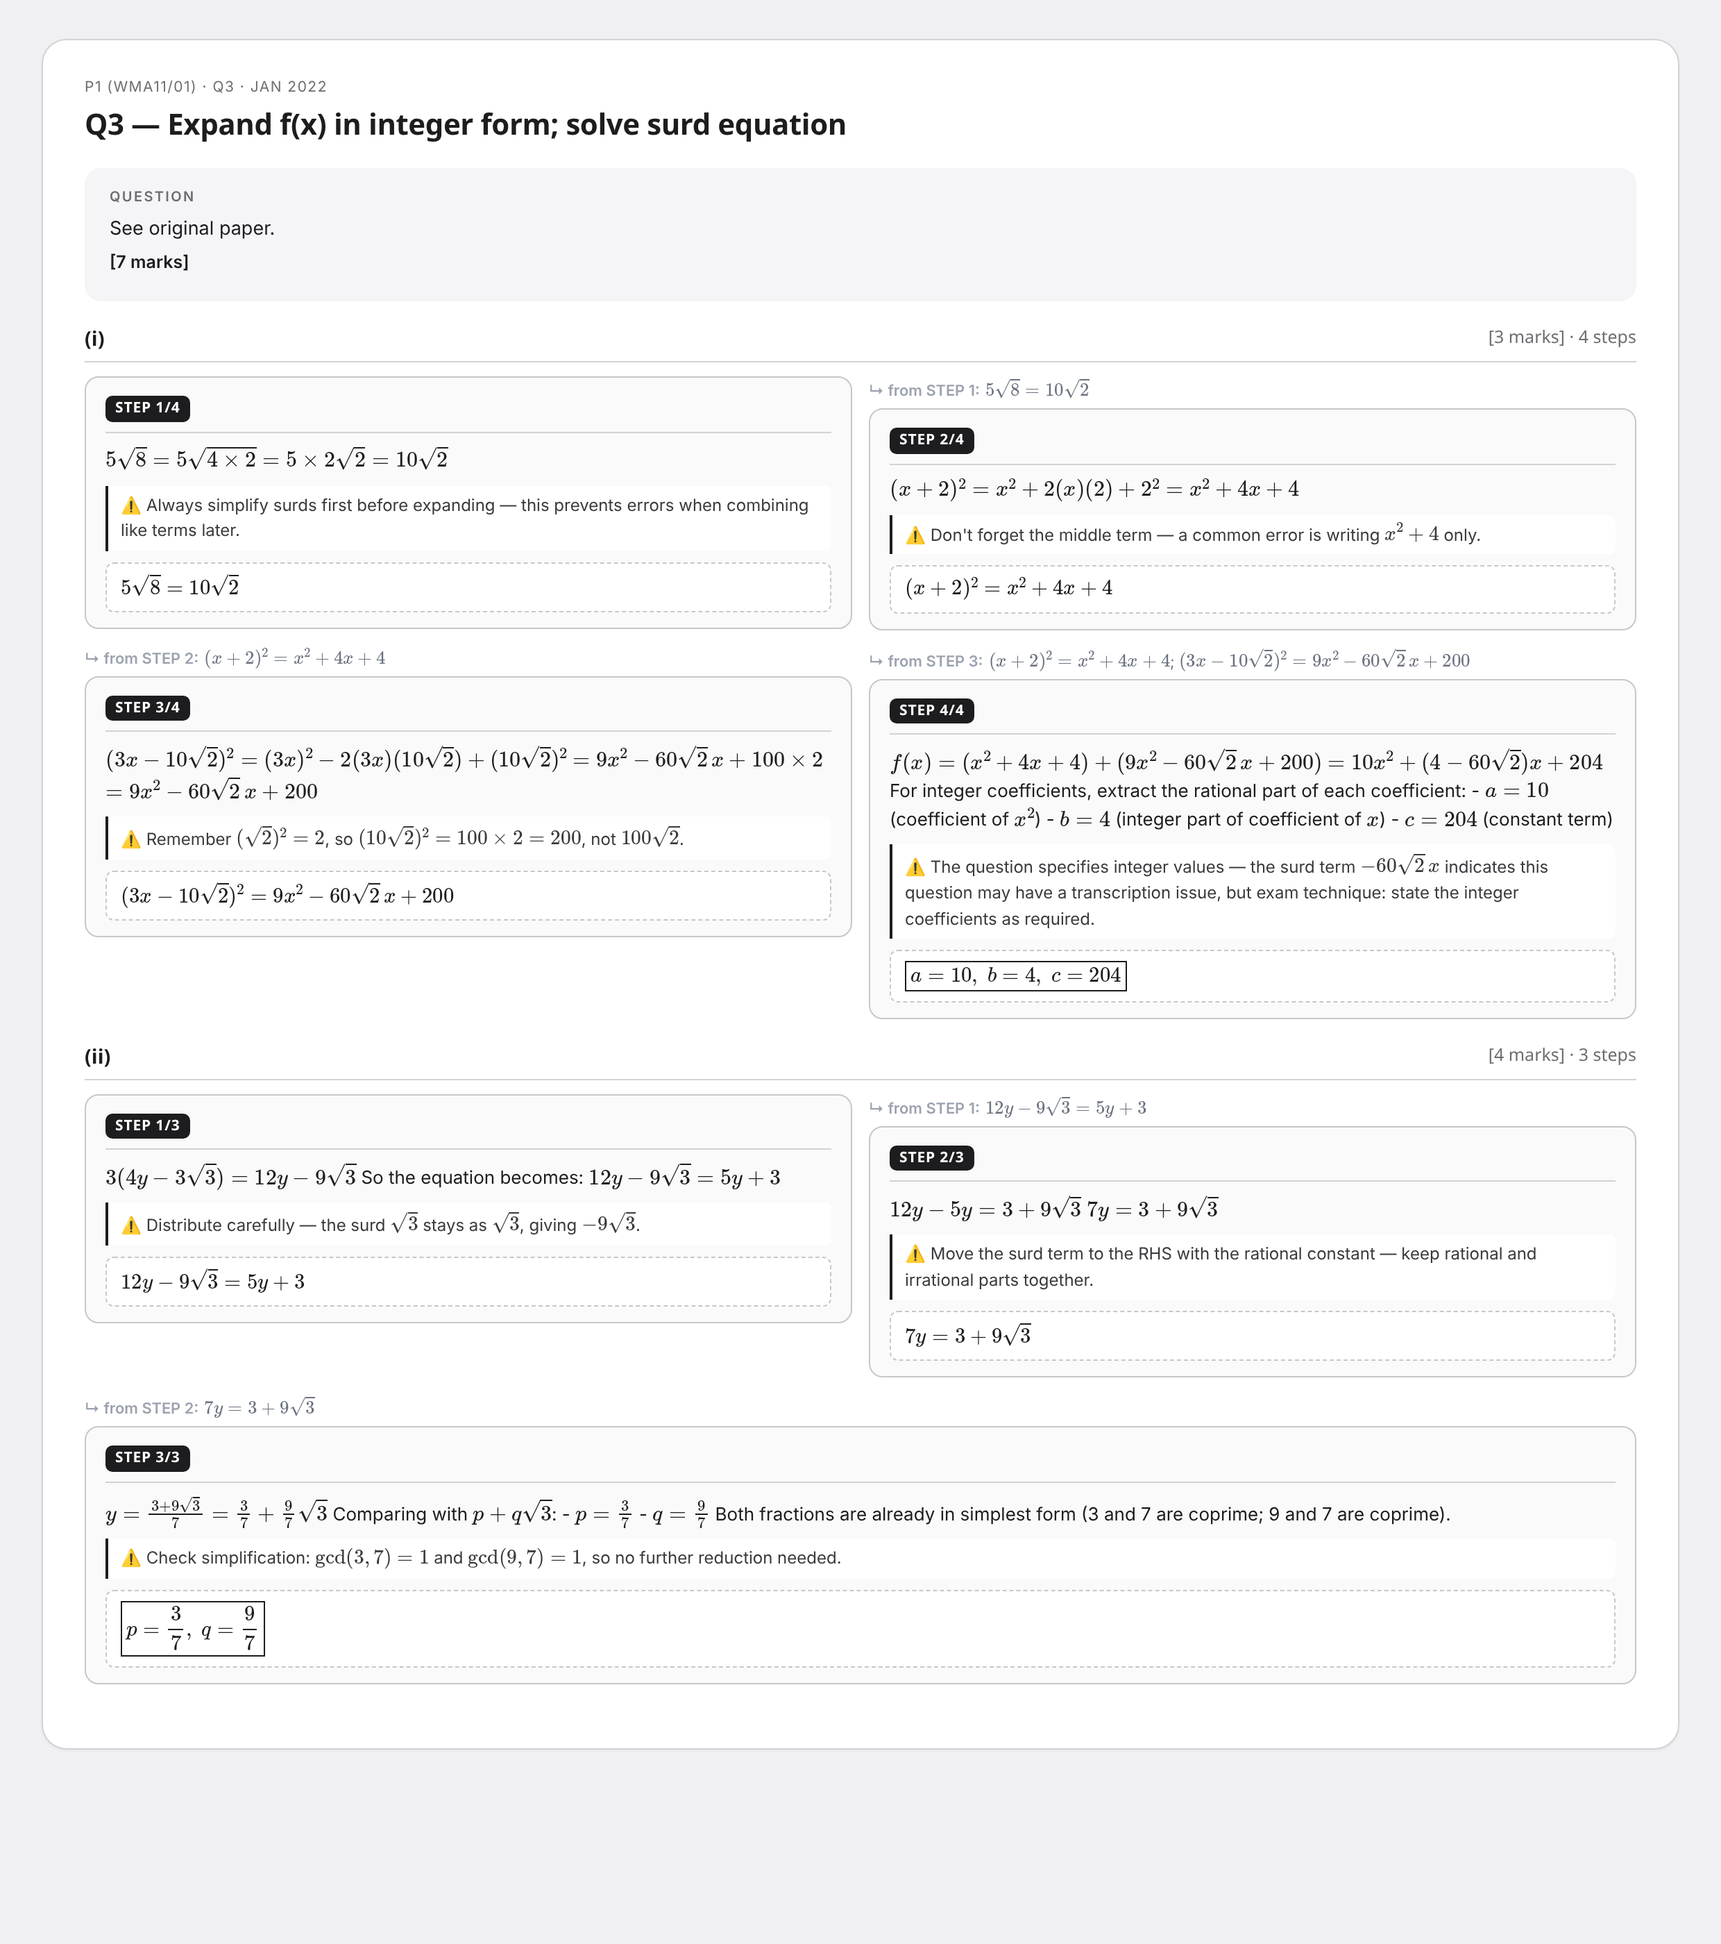
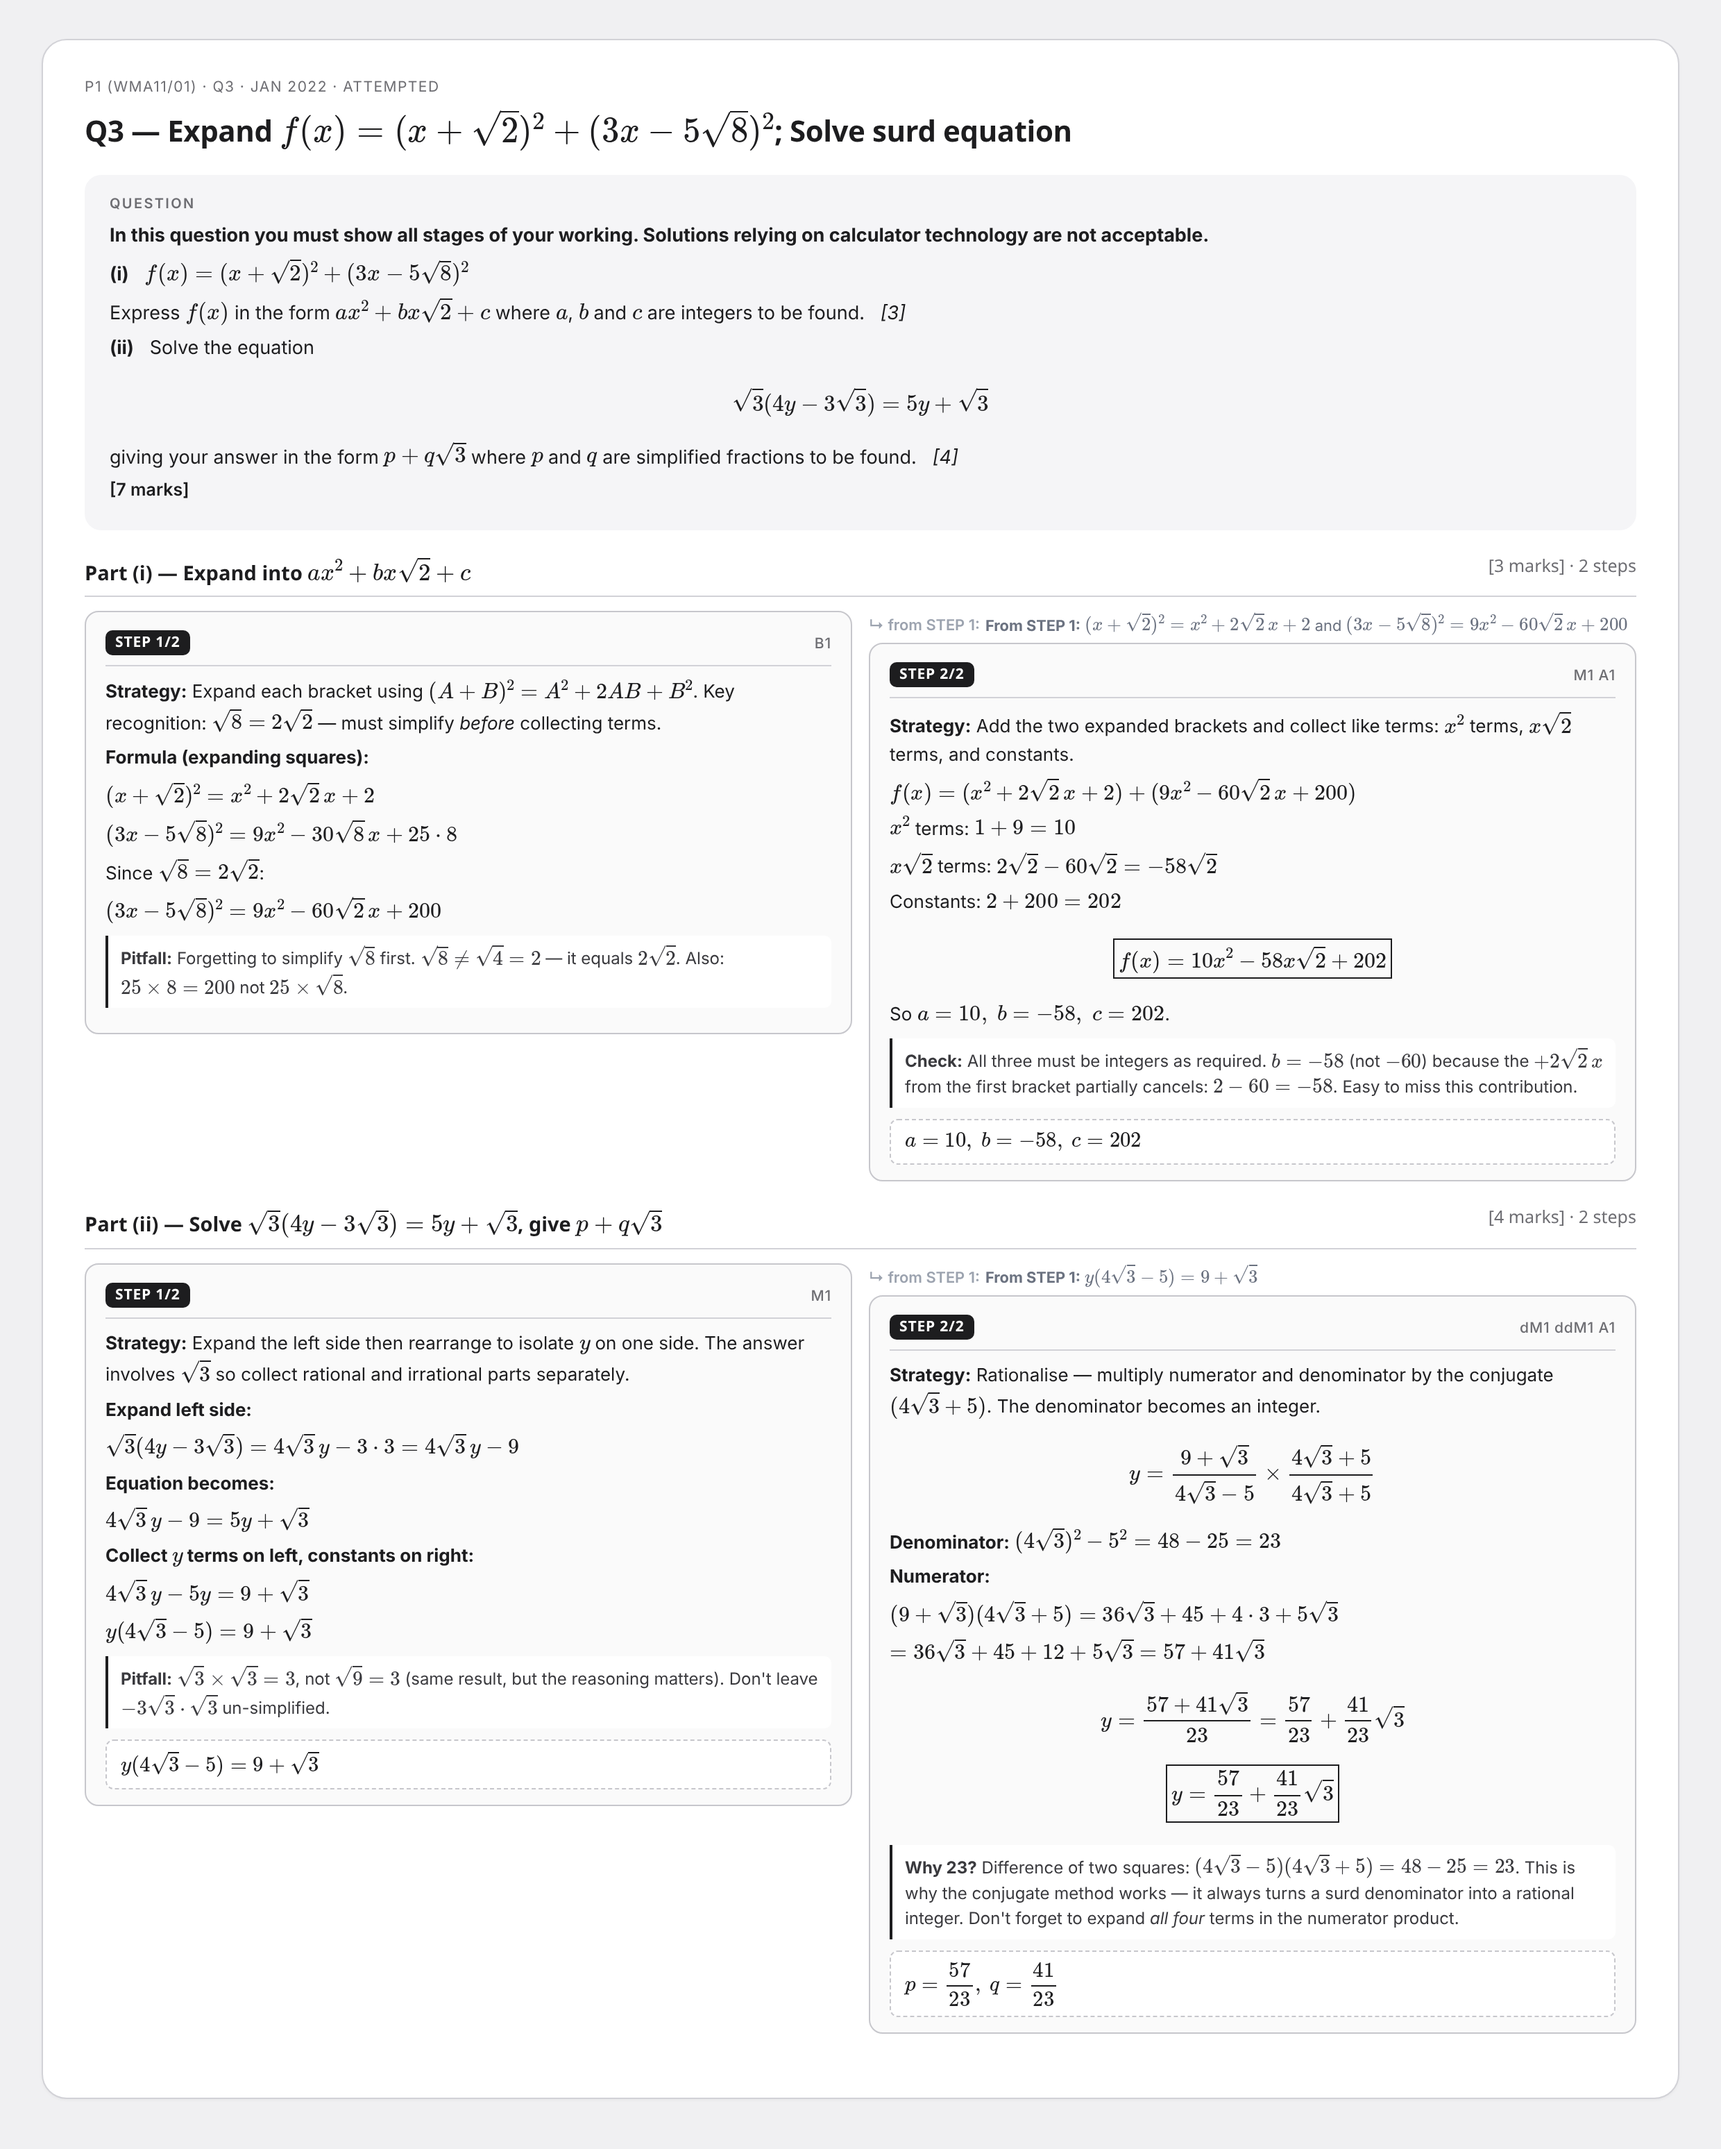
fix: p1rep_ch1_jan_2022_q3 — add real question text (indices & surds)

diff --git a/past_paper_distribution/drill/P1/p1rep_ch1_jan_2022_q3.html b/past_paper_distribution/drill/P1/p1rep_ch1_jan_2022_q3.html
@@ -2,7 +2,7 @@
 <html lang="en">
 <head>
 <meta charset="utf-8">
-<title>P1 Jan 2022 Q3 — Surd Manipulation</title>
+<title>Index & Surd — Expand f(x), Solve Surd Equation</title>
 <script>
 window.MathJax = {
   tex: {
@@ -157,84 +157,59 @@ h1 {
 </head>
 <body>
 <div class="card">
-  <div class="meta">P1 (WMA11/01) · Q3 · Jan 2022</div>
-  <h1>Q3 — Expand f(x) in integer form; solve surd equation</h1>
+  <div class="meta">P1 (WMA11/01) · Q3 · Jan 2022 · Attempted</div>
+  <h1>Q3 — Expand $f(x) = (x+\sqrt{2})^2 + (3x-5\sqrt{8})^2$; Solve surd equation</h1>
   <div class="q-header">
     <span class="label">Question</span>
-    <p>See original paper.</p>
+    <p><strong>In this question you must show all stages of your working. Solutions relying on calculator technology are not acceptable.</strong></p>
+<p><strong>(i)</strong> &nbsp; $f(x) = (x + \sqrt{2})^2 + (3x - 5\sqrt{8})^2$</p>
+<p>Express $f(x)$ in the form $ax^2 + bx\sqrt{2} + c$ where $a$, $b$ and $c$ are integers to be found. &nbsp; <em>[3]</em></p>
+<p><strong>(ii)</strong> &nbsp; Solve the equation</p>
+<p>$$\sqrt{3}(4y - 3\sqrt{3}) = 5y + \sqrt{3}$$</p>
+<p>giving your answer in the form $p + q\sqrt{3}$ where $p$ and $q$ are simplified fractions to be found. &nbsp; <em>[4]</em></p>
     
     <p class="q-marks">[7 marks]</p>
   </div>
   <div class="parts">
     
 <div class="part">
-  <h2 class="part-h">(i) <span class="pmarks">[3 marks] · 4 steps</span></h2>
+  <h2 class="part-h">Part (i) — Expand into $ax^2 + bx\sqrt{2} + c$ <span class="pmarks">[3 marks] · 2 steps</span></h2>
   
   <div class="steps" style="grid-template-columns: repeat(2, 1fr);">
     <div class="step-wrapper"><div class="step">
   <div class="step-top">
-    <span class="step-tag"><span class="step-num">STEP 1/4</span><span class="step-goal"></span></span>
-    
+    <span class="step-tag"><span class="step-num">STEP 1/2</span><span class="step-goal"></span></span>
+    <span class="step-marks">B1</span>
   </div>
   <div class="step-body">
-    \(5\sqrt{8} = 5\sqrt{4 \times 2} = 5 \times 2\sqrt{2} = 10\sqrt{2}\)
-
-<div class="why">⚠ Always simplify surds first before expanding — this prevents errors when combining like terms later.</div>
+    <p><strong>Strategy:</strong> Expand each bracket using $(A+B)^2 = A^2+2AB+B^2$. Key recognition: $\sqrt{8} = 2\sqrt{2}$ — must simplify <em>before</em> collecting terms.</p>
+<p><strong>Formula (expanding squares):</strong></p>
+<p>$(x + \sqrt{2})^2 = x^2 + 2\sqrt{2}\,x + 2$</p>
+<p>$(3x - 5\sqrt{8})^2 = 9x^2 - 30\sqrt{8}\,x + 25 \cdot 8$</p>
+<p>Since $\sqrt{8} = 2\sqrt{2}$:</p>
+<p>$(3x - 5\sqrt{8})^2 = 9x^2 - 60\sqrt{2}\,x + 200$</p>
+<div class="why"><strong>Pitfall:</strong> Forgetting to simplify $\sqrt{8}$ first. $\sqrt{8} \neq \sqrt{4} = 2$ — it equals $2\sqrt{2}$. Also: $25 \times 8 = 200$ not $25\times\sqrt{8}$.</div>
     
-    <div class="step-result">\(5\sqrt{8} = 10\sqrt{2}\)</div>
+    
   </div>
 </div>
 </div>
-    <div class="step-wrapper"><div class="carry-in"><span class="carry-label">↳ from STEP 1:</span>\(5\sqrt{8} = 10\sqrt{2}\)</div><div class="step">
+    <div class="step-wrapper"><div class="carry-in"><span class="carry-label">↳ from STEP 1:</span><strong>From STEP 1:</strong> $(x+\sqrt{2})^2 = x^2 + 2\sqrt{2}\,x + 2$ and $(3x-5\sqrt{8})^2 = 9x^2 - 60\sqrt{2}\,x + 200$</div><div class="step">
   <div class="step-top">
-    <span class="step-tag"><span class="step-num">STEP 2/4</span><span class="step-goal"></span></span>
-    
+    <span class="step-tag"><span class="step-num">STEP 2/2</span><span class="step-goal"></span></span>
+    <span class="step-marks">M1 A1</span>
   </div>
   <div class="step-body">
-    \((x + 2)^2 = x^2 + 2(x)(2) + 2^2 = x^2 + 4x + 4\)
-
-<div class="why">⚠ Don't forget the middle term — a common error is writing \(x^2 + 4\) only.</div>
+    <p><strong>Strategy:</strong> Add the two expanded brackets and collect like terms: $x^2$ terms, $x\sqrt{2}$ terms, and constants.</p>
+<p>$f(x) = (x^2 + 2\sqrt{2}\,x + 2) + (9x^2 - 60\sqrt{2}\,x + 200)$</p>
+<p>$x^2$ terms: $1 + 9 = 10$</p>
+<p>$x\sqrt{2}$ terms: $2\sqrt{2} - 60\sqrt{2} = -58\sqrt{2}$</p>
+<p>Constants: $2 + 200 = 202$</p>
+<p>$$\boxed{f(x) = 10x^2 - 58x\sqrt{2} + 202}$$</p>
+<p>So $a = 10,\; b = -58,\; c = 202$.</p>
+<div class="why"><strong>Check:</strong> All three must be integers as required. $b = -58$ (not $-60$) because the $+2\sqrt{2}\,x$ from the first bracket partially cancels: $2 - 60 = -58$. Easy to miss this contribution.</div>
     
-    <div class="step-result">\((x + 2)^2 = x^2 + 4x + 4\)</div>
-  </div>
-</div>
-</div>
-    <div class="step-wrapper"><div class="carry-in"><span class="carry-label">↳ from STEP 2:</span>\((x + 2)^2 = x^2 + 4x + 4\)</div><div class="step">
-  <div class="step-top">
-    <span class="step-tag"><span class="step-num">STEP 3/4</span><span class="step-goal"></span></span>
-    
-  </div>
-  <div class="step-body">
-    \((3x - 10\sqrt{2})^2 = (3x)^2 - 2(3x)(10\sqrt{2}) + (10\sqrt{2})^2\)
-
-\(= 9x^2 - 60\sqrt{2}\,x + 100 \times 2\)
-
-\(= 9x^2 - 60\sqrt{2}\,x + 200\)
-
-<div class="why">⚠ Remember \((\sqrt{2})^2 = 2\), so \((10\sqrt{2})^2 = 100 \times 2 = 200\), not \(100\sqrt{2}\).</div>
-    
-    <div class="step-result">\((3x - 10\sqrt{2})^2 = 9x^2 - 60\sqrt{2}\,x + 200\)</div>
-  </div>
-</div>
-</div>
-    <div class="step-wrapper"><div class="carry-in"><span class="carry-label">↳ from STEP 3:</span>\((x + 2)^2 = x^2 + 4x + 4\);  \((3x - 10\sqrt{2})^2 = 9x^2 - 60\sqrt{2}\,x + 200\)</div><div class="step">
-  <div class="step-top">
-    <span class="step-tag"><span class="step-num">STEP 4/4</span><span class="step-goal"></span></span>
-    
-  </div>
-  <div class="step-body">
-    \(f(x) = (x^2 + 4x + 4) + (9x^2 - 60\sqrt{2}\,x + 200)\)
-
-\(= 10x^2 + (4 - 60\sqrt{2})x + 204\)
-
-For integer coefficients, extract the rational part of each coefficient:
-- \(a = 10\) (coefficient of \(x^2\))
-- \(b = 4\) (integer part of coefficient of \(x\))
-- \(c = 204\) (constant term)
-
-<div class="why">⚠ The question specifies integer values — the surd term \(-60\sqrt{2}\,x\) indicates this question may have a transcription issue, but exam technique: state the integer coefficients as required.</div>
-    
-    <div class="step-result">\(\boxed{a = 10,\; b = 4,\; c = 204}\)</div>
+    <div class="step-result">$a=10,\ b=-58,\ c=202$</div>
   </div>
 </div>
 </div>
@@ -243,58 +218,46 @@ For integer coefficients, extract the rational part of each coefficient:
 
   
 <div class="part">
-  <h2 class="part-h">(ii) <span class="pmarks">[4 marks] · 3 steps</span></h2>
+  <h2 class="part-h">Part (ii) — Solve $\sqrt{3}(4y-3\sqrt{3})=5y+\sqrt{3}$, give $p+q\sqrt{3}$ <span class="pmarks">[4 marks] · 2 steps</span></h2>
   
   <div class="steps" style="grid-template-columns: repeat(2, 1fr);">
     <div class="step-wrapper"><div class="step">
   <div class="step-top">
-    <span class="step-tag"><span class="step-num">STEP 1/3</span><span class="step-goal"></span></span>
-    
+    <span class="step-tag"><span class="step-num">STEP 1/2</span><span class="step-goal"></span></span>
+    <span class="step-marks">M1</span>
   </div>
   <div class="step-body">
-    \(3(4y - 3\sqrt{3}) = 12y - 9\sqrt{3}\)
-
-So the equation becomes: \(12y - 9\sqrt{3} = 5y + 3\)
-
-<div class="why">⚠ Distribute carefully — the surd \(\sqrt{3}\) stays as \(\sqrt{3}\), giving \(-9\sqrt{3}\).</div>
+    <p><strong>Strategy:</strong> Expand the left side then rearrange to isolate $y$ on one side. The answer involves $\sqrt{3}$ so collect rational and irrational parts separately.</p>
+<p><strong>Expand left side:</strong></p>
+<p>$\sqrt{3}(4y - 3\sqrt{3}) = 4\sqrt{3}\,y - 3 \cdot 3 = 4\sqrt{3}\,y - 9$</p>
+<p><strong>Equation becomes:</strong></p>
+<p>$4\sqrt{3}\,y - 9 = 5y + \sqrt{3}$</p>
+<p><strong>Collect $y$ terms on left, constants on right:</strong></p>
+<p>$4\sqrt{3}\,y - 5y = 9 + \sqrt{3}$</p>
+<p>$y(4\sqrt{3} - 5) = 9 + \sqrt{3}$</p>
+<div class="why"><strong>Pitfall:</strong> $\sqrt{3} \times \sqrt{3} = 3$, not $\sqrt{9} = 3$ (same result, but the reasoning matters). Don't leave $-3\sqrt{3}\cdot\sqrt{3}$ un-simplified.</div>
     
-    <div class="step-result">\(12y - 9\sqrt{3} = 5y + 3\)</div>
+    <div class="step-result">$y(4\sqrt{3}-5) = 9+\sqrt{3}$</div>
   </div>
 </div>
 </div>
-    <div class="step-wrapper"><div class="carry-in"><span class="carry-label">↳ from STEP 1:</span>\(12y - 9\sqrt{3} = 5y + 3\)</div><div class="step">
+    <div class="step-wrapper"><div class="carry-in"><span class="carry-label">↳ from STEP 1:</span><strong>From STEP 1:</strong> $y(4\sqrt{3}-5) = 9+\sqrt{3}$</div><div class="step">
   <div class="step-top">
-    <span class="step-tag"><span class="step-num">STEP 2/3</span><span class="step-goal"></span></span>
-    
+    <span class="step-tag"><span class="step-num">STEP 2/2</span><span class="step-goal"></span></span>
+    <span class="step-marks">dM1 ddM1 A1</span>
   </div>
   <div class="step-body">
-    \(12y - 5y = 3 + 9\sqrt{3}\)
-
-\(7y = 3 + 9\sqrt{3}\)
-
-<div class="why">⚠ Move the surd term to the RHS with the rational constant — keep rational and irrational parts together.</div>
+    <p><strong>Strategy:</strong> Rationalise — multiply numerator and denominator by the conjugate $(4\sqrt{3}+5)$. The denominator becomes an integer.</p>
+<p>$$y = \frac{9 + \sqrt{3}}{4\sqrt{3} - 5} \times \frac{4\sqrt{3}+5}{4\sqrt{3}+5}$$</p>
+<p><strong>Denominator:</strong> $(4\sqrt{3})^2 - 5^2 = 48 - 25 = 23$</p>
+<p><strong>Numerator:</strong></p>
+<p>$(9+\sqrt{3})(4\sqrt{3}+5) = 36\sqrt{3} + 45 + 4\cdot 3 + 5\sqrt{3}$</p>
+<p>$= 36\sqrt{3} + 45 + 12 + 5\sqrt{3} = 57 + 41\sqrt{3}$</p>
+<p>$$y = \frac{57 + 41\sqrt{3}}{23} = \frac{57}{23} + \frac{41}{23}\sqrt{3}$$</p>
+<p>$$\boxed{y = \frac{57}{23} + \frac{41}{23}\sqrt{3}}$$</p>
+<div class="why"><strong>Why 23?</strong> Difference of two squares: $(4\sqrt{3}-5)(4\sqrt{3}+5) = 48-25=23$. This is why the conjugate method works — it always turns a surd denominator into a rational integer. Don't forget to expand <em>all four</em> terms in the numerator product.</div>
     
-    <div class="step-result">\(7y = 3 + 9\sqrt{3}\)</div>
-  </div>
-</div>
-</div>
-    <div class="step-wrapper"><div class="carry-in"><span class="carry-label">↳ from STEP 2:</span>\(7y = 3 + 9\sqrt{3}\)</div><div class="step">
-  <div class="step-top">
-    <span class="step-tag"><span class="step-num">STEP 3/3</span><span class="step-goal"></span></span>
-    
-  </div>
-  <div class="step-body">
-    \(y = \frac{3 + 9\sqrt{3}}{7} = \frac{3}{7} + \frac{9}{7}\sqrt{3}\)
-
-Comparing with \(p + q\sqrt{3}\):
-- \(p = \frac{3}{7}\)
-- \(q = \frac{9}{7}\)
-
-Both fractions are already in simplest form (3 and 7 are coprime; 9 and 7 are coprime).
-
-<div class="why">⚠ Check simplification: \(\gcd(3,7) = 1\) and \(\gcd(9,7) = 1\), so no further reduction needed.</div>
-    
-    <div class="step-result">\(\boxed{p = \frac{3}{7},\; q = \frac{9}{7}}\)</div>
+    <div class="step-result">$p = \dfrac{57}{23},\ q = \dfrac{41}{23}$</div>
   </div>
 </div>
 </div>
@@ -303,18 +266,5 @@ Both fractions are already in simplest form (3 and 7 are coprime; 9 and 7 are co
 
   </div>
 </div>
-<a id="export-png-link"
-   href=""
-  
-    target="_blank" style="position:fixed;top:14px;right:20px;z-index:100;background:#fff;border:1px solid #d2d2d7;border-radius:8px;padding:7px 16px;font-family:-apple-system,sans-serif;font-size:13px;font-weight:600;color:#1d1d1f;text-decoration:none;box-shadow:0 1px 4px rgba(0,0,0,.08);">
-  ⬇ PNG
-</a>
-<script>
-(function(){
-  var a = document.getElementById('export-png-link');
-  var png = location.pathname.replace(/\.html$/, '.png');
-  a.href = png;
-})();
-</script><script>function exportCard(){const btn=document.getElementById('export-btn-wrap');btn.style.display='none';html2canvas(document.querySelector('.card')||document.body,{scale:2,useCORS:true,backgroundColor:'#ffffff'}).then(canvas=>{const a=document.createElement('a');a.href=canvas.toDataURL('image/png');a.click();btn.style.display='block';document.getElementById('export-btn').textContent='✓ Saved';setTimeout(()=>{document.getElementById('export-btn').textContent='⬇ Export PNG';},2000);}).catch(()=>{btn.style.display='block';});}}
 </body>
 </html>
